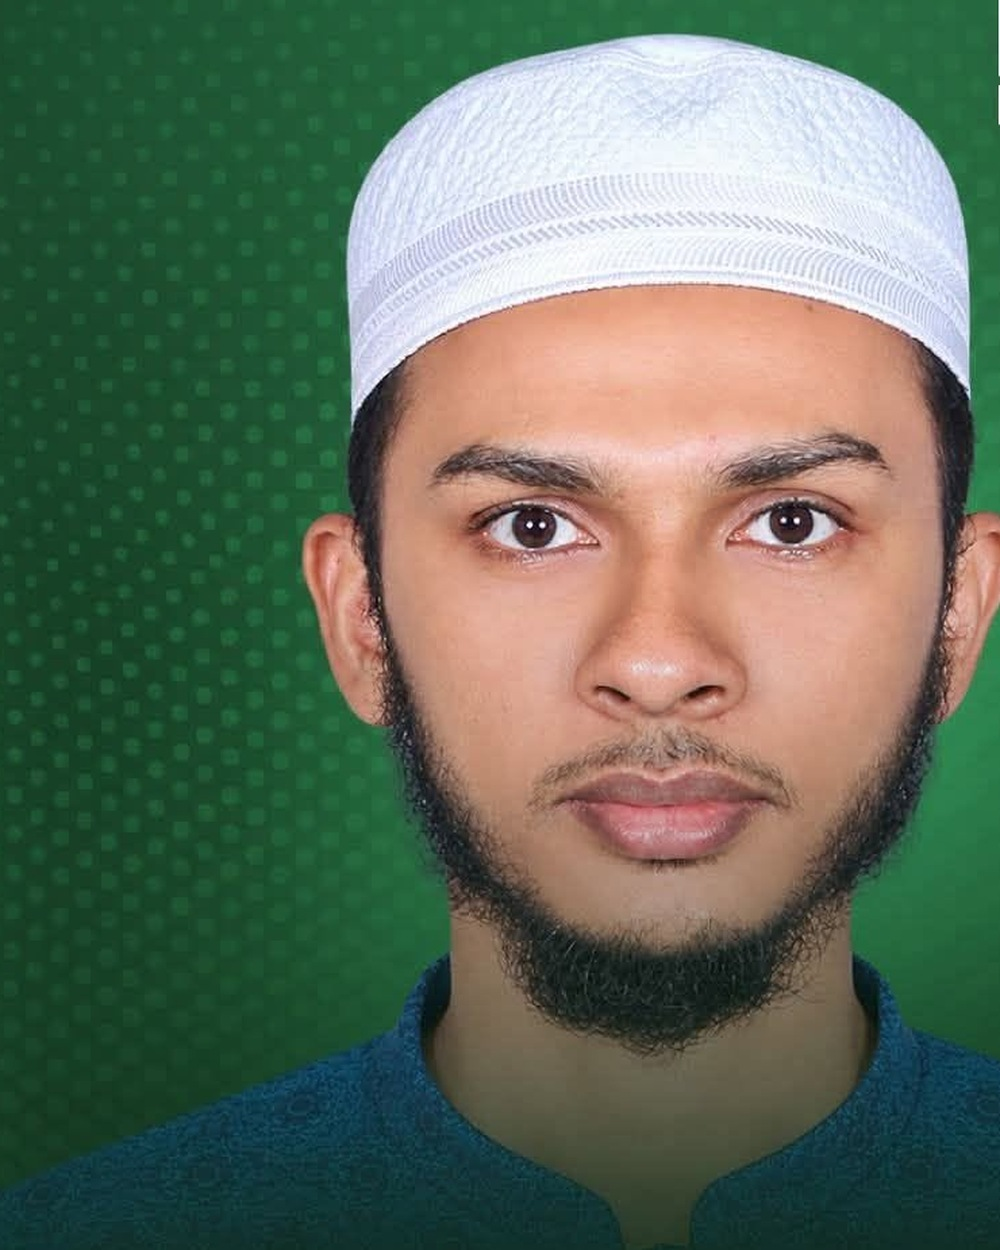
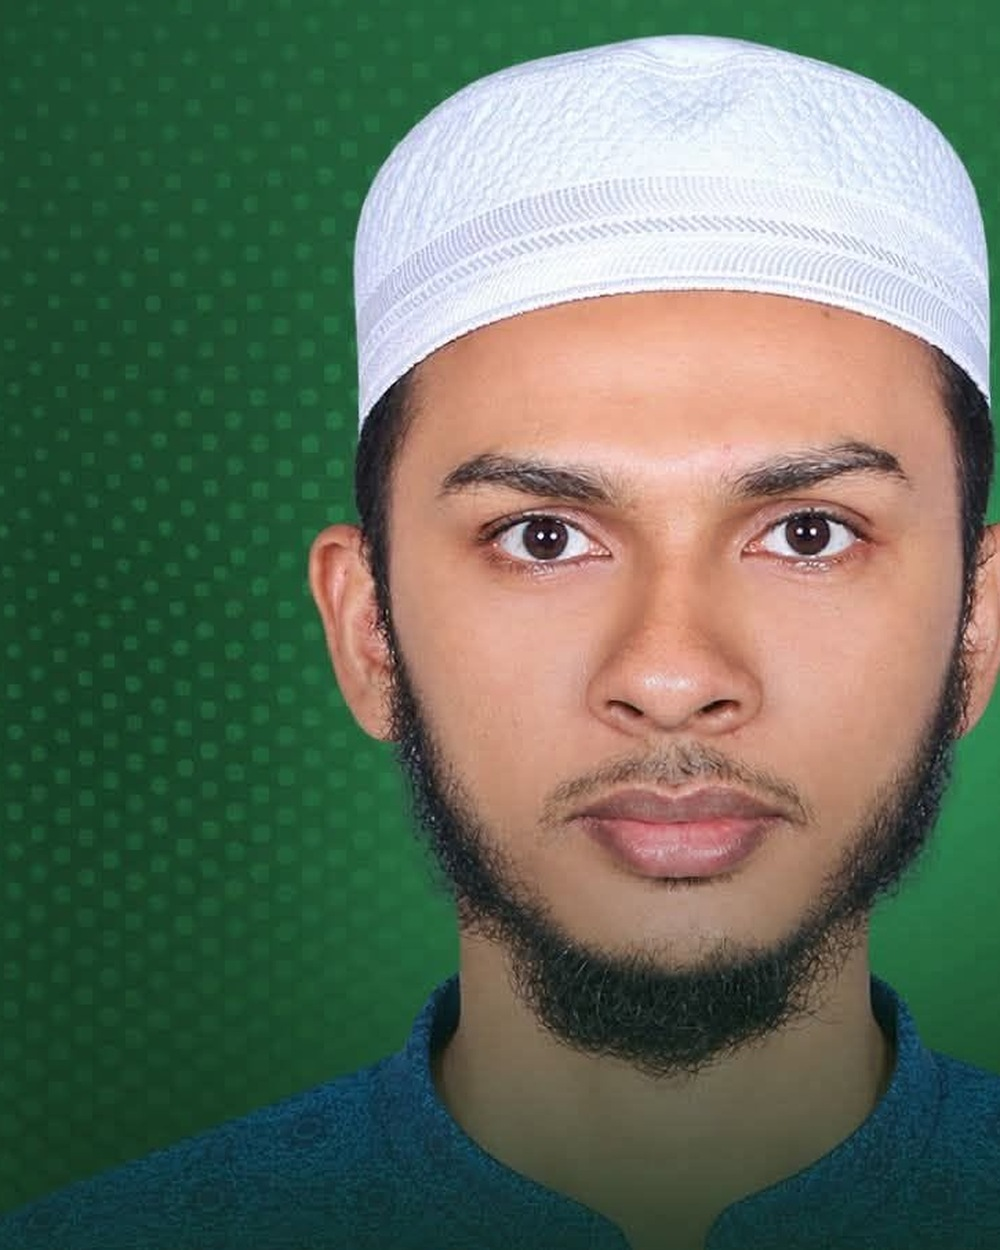
Refactor code structure for improved readability and maintainability

diff --git a/candidate.html b/candidate.html
@@ -397,7 +397,8 @@
     "name": "Jibon Krishna Mondal",
     "discipline": "Pharmacy",
     "studentId": "991112",
-    "batch": 1999
+    "batch": 1999,
+    "photo": "public/candidates/991112.jpg"
   },
   {
     "position": "Office Management Secretary",
@@ -411,7 +412,8 @@
     "name": "Abdul Hai",
     "discipline": "Agrotechnology",
     "studentId": "040830",
-    "batch": 2004
+    "batch": 2004,
+    "photo": "public/candidates/040830.jpg"
   },
   {
     "position": "Office Management Secretary",
@@ -479,7 +481,8 @@
     "name": "Nazmul Hasan (Sajal)",
     "discipline": "Bangla",
     "studentId": "111919",
-    "batch": 2011
+    "batch": 2011,
+    "photo": "public/candidates/111919.jpg"
   },
   {
     "position": "Assistant Public Relation Secretary",
@@ -637,7 +640,8 @@
     "name": "Md. Touhiduzzaman (Xsumon)",
     "discipline": "Business Administration",
     "studentId": "010346",
-    "batch": 2001
+    "batch": 2001,
+    "photo": "public/candidates/010346.jpg"
   },
   {
     "position": "Assistant Student Affairs Secretary",
@@ -1038,7 +1042,8 @@
     "name": "Md. Jahidul Islam Sajal",
     "discipline": "Agrotechnology",
     "studentId": "130828",
-    "batch": 2013
+    "batch": 2013,
+    "photo": "public/candidates/130828.jpg"
   },
   {
     "position": "Executive Member",
@@ -1122,7 +1127,8 @@
     "name": "Md Rafid Rahman",
     "discipline": "Sociology",
     "studentId": "191652",
-    "batch": 2019
+    "batch": 2019,
+    "photo": "public/candidates/191652.jpg"
   },
   {
     "position": "Executive Member",
@@ -1144,7 +1150,8 @@
     "name": "Arif Raihan Apon",
     "discipline": "Biotechnology and Genetic Engineering",
     "studentId": "210711",
-    "batch": 2021
+    "batch": 2021,
+    "photo": "public/candidates/210711.jpg"
   },
   {
     "position": "Executive Member",

diff --git a/index.html b/index.html
@@ -521,7 +521,8 @@
     "name": "Jibon Krishna Mondal",
     "discipline": "Pharmacy",
     "studentId": "991112",
-    "batch": 1999
+    "batch": 1999,
+    "photo": "public/candidates/991112.jpg"
   },
   {
     "position": "Office Management Secretary",
@@ -535,7 +536,8 @@
     "name": "Abdul Hai",
     "discipline": "Agrotechnology",
     "studentId": "040830",
-    "batch": 2004
+    "batch": 2004,
+    "photo": "public/candidates/040830.jpg"
   },
   {
     "position": "Office Management Secretary",
@@ -603,7 +605,8 @@
     "name": "Nazmul Hasan (Sajal)",
     "discipline": "Bangla",
     "studentId": "111919",
-    "batch": 2011
+    "batch": 2011,
+    "photo": "public/candidates/111919.jpg"
   },
   {
     "position": "Assistant Public Relation Secretary",
@@ -761,7 +764,8 @@
     "name": "Md. Touhiduzzaman (Xsumon)",
     "discipline": "Business Administration",
     "studentId": "010346",
-    "batch": 2001
+    "batch": 2001,
+    "photo": "public/candidates/010346.jpg"
   },
   {
     "position": "Assistant Student Affairs Secretary",
@@ -1162,7 +1166,8 @@
     "name": "Md. Jahidul Islam Sajal",
     "discipline": "Agrotechnology",
     "studentId": "130828",
-    "batch": 2013
+    "batch": 2013,
+    "photo": "public/candidates/130828.jpg"
   },
   {
     "position": "Executive Member",
@@ -1246,7 +1251,8 @@
     "name": "Md Rafid Rahman",
     "discipline": "Sociology",
     "studentId": "191652",
-    "batch": 2019
+    "batch": 2019,
+    "photo": "public/candidates/191652.jpg"
   },
   {
     "position": "Executive Member",
@@ -1268,7 +1274,8 @@
     "name": "Arif Raihan Apon",
     "discipline": "Biotechnology and Genetic Engineering",
     "studentId": "210711",
-    "batch": 2021
+    "batch": 2021,
+    "photo": "public/candidates/210711.jpg"
   },
   {
     "position": "Executive Member",

diff --git a/stats.html b/stats.html
@@ -439,7 +439,8 @@
     "name": "Jibon Krishna Mondal",
     "discipline": "Pharmacy",
     "studentId": "991112",
-    "batch": 1999
+    "batch": 1999,
+    "photo": "public/candidates/991112.jpg"
   },
   {
     "position": "Office Management Secretary",
@@ -453,7 +454,8 @@
     "name": "Abdul Hai",
     "discipline": "Agrotechnology",
     "studentId": "040830",
-    "batch": 2004
+    "batch": 2004,
+    "photo": "public/candidates/040830.jpg"
   },
   {
     "position": "Office Management Secretary",
@@ -521,7 +523,8 @@
     "name": "Nazmul Hasan (Sajal)",
     "discipline": "Bangla",
     "studentId": "111919",
-    "batch": 2011
+    "batch": 2011,
+    "photo": "public/candidates/111919.jpg"
   },
   {
     "position": "Assistant Public Relation Secretary",
@@ -679,7 +682,8 @@
     "name": "Md. Touhiduzzaman (Xsumon)",
     "discipline": "Business Administration",
     "studentId": "010346",
-    "batch": 2001
+    "batch": 2001,
+    "photo": "public/candidates/010346.jpg"
   },
   {
     "position": "Assistant Student Affairs Secretary",
@@ -1080,7 +1084,8 @@
     "name": "Md. Jahidul Islam Sajal",
     "discipline": "Agrotechnology",
     "studentId": "130828",
-    "batch": 2013
+    "batch": 2013,
+    "photo": "public/candidates/130828.jpg"
   },
   {
     "position": "Executive Member",
@@ -1164,7 +1169,8 @@
     "name": "Md Rafid Rahman",
     "discipline": "Sociology",
     "studentId": "191652",
-    "batch": 2019
+    "batch": 2019,
+    "photo": "public/candidates/191652.jpg"
   },
   {
     "position": "Executive Member",
@@ -1186,7 +1192,8 @@
     "name": "Arif Raihan Apon",
     "discipline": "Biotechnology and Genetic Engineering",
     "studentId": "210711",
-    "batch": 2021
+    "batch": 2021,
+    "photo": "public/candidates/210711.jpg"
   },
   {
     "position": "Executive Member",
